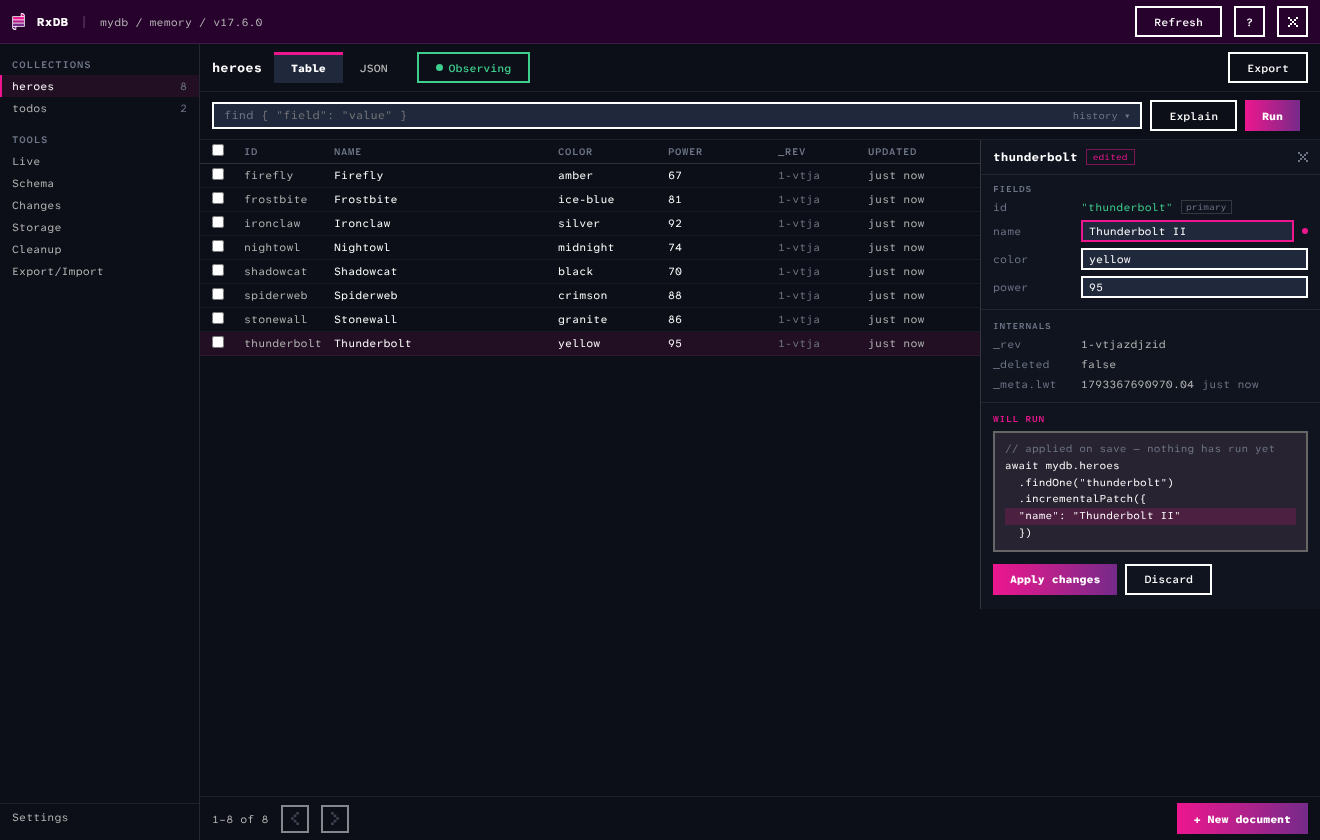
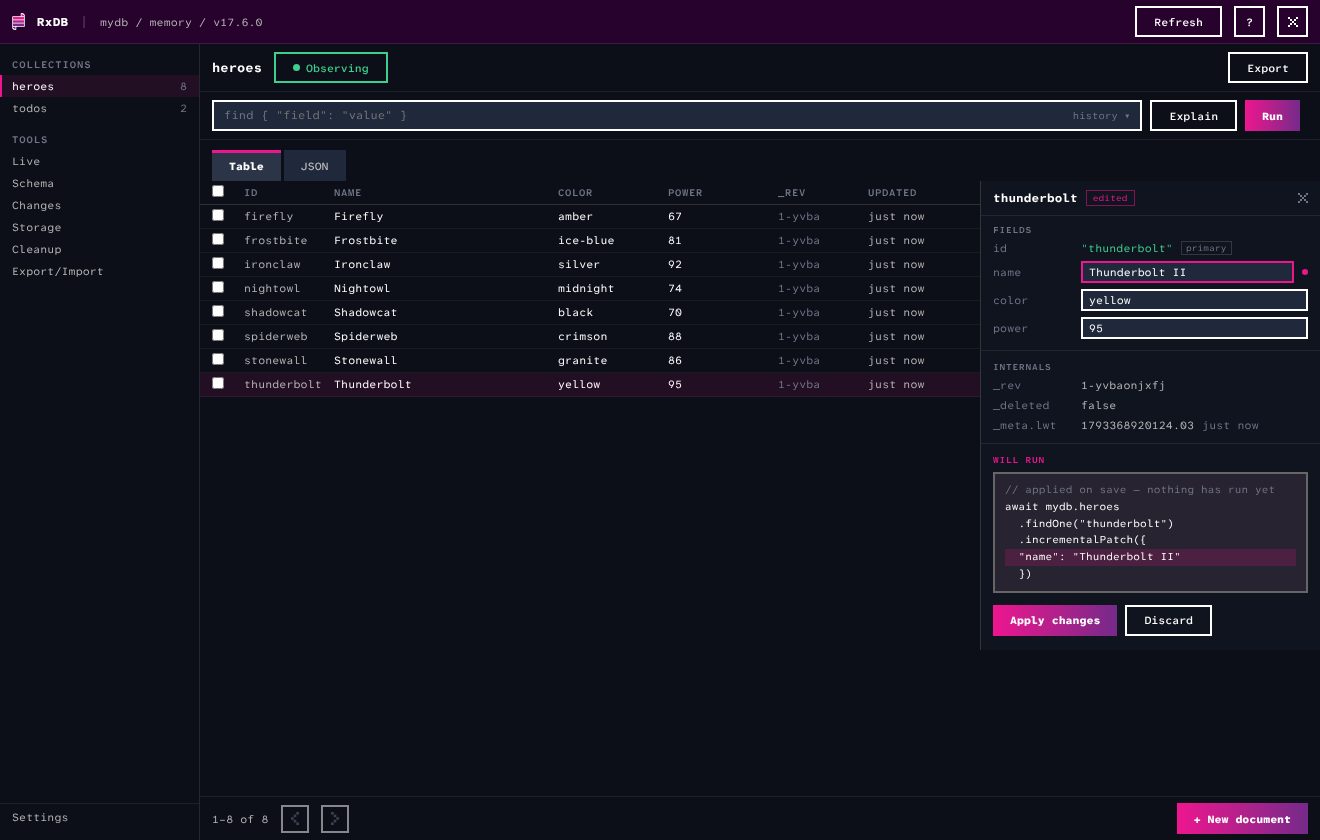
dbviewer: mobile layout fixes, tab placement and docs page rework
On mobile the changes master/detail split stacks vertically so
the diff code box stays inside the screen, the live map flows
top-down without the horizontal lanes, and the tool pages no
longer repeat the tool name below the phone header. Tabs have
a filled background so the inactive tab also reads as a tab,
and the Table/JSON tabs moved out of the toolbar to sit
directly above the content box. The query selector input has
the same fixed 31px height as the buttons next to it.

The docs page is renamed to db-viewer.md with the slug
db-viewer.html (inbound links, sidebar, changelog link and the
viewer help urls updated). Its intro now names both ways to
use the viewer, mounted in-app via mountRxDBViewer() or
connected from the outside via connectRxDBViewer(). The dump
banner sentence, the Follow Up section and the phone
screenshot are removed, docs use desktop screenshots only.

Claude-Session: https://claude.ai/code/session_01XSWnG8xBeMGgwaLKniRnyJ

diff --git a/docs-src/dbviewer/styles.ts b/docs-src/dbviewer/styles.ts
@@ -272,9 +272,12 @@ export const DBVIEWER_STYLES = `
  * background, bold text and a 3px indicator bar in the
  * brand color.
  */
+/* the tab row sits directly above the content box */
+.rxdbv-tabs-row { display: flex; padding: 10px 12px 0; }
 .rxdbv-tabs {
     display: inline-flex;
     align-items: stretch;
+    gap: 3px;
     height: 31px;
 }
 .rxdbv-tab {
@@ -285,7 +288,7 @@ export const DBVIEWER_STYLES = `
     justify-content: center;
     padding: 0 17px;
     border: 0;
-    background: transparent;
+    background: var(--rxdbv-bg);
     color: var(--rxdbv-fg-muted);
     font-size: 11px;
     font-weight: 500;
@@ -294,7 +297,7 @@ export const DBVIEWER_STYLES = `
     transition: color 180ms ease-in-out, background 180ms ease-in-out;
 }
 .rxdbv-tab:hover:not(.rxdbv-active) { color: var(--rxdbv-fg); font-weight: 800; }
-.rxdbv-tab.rxdbv-active { background: var(--rxdbv-bg); color: var(--rxdbv-fg); font-weight: 800; }
+.rxdbv-tab.rxdbv-active { background: var(--rxdbv-active-segment); color: var(--rxdbv-fg); font-weight: 800; }
 .rxdbv-tab.rxdbv-active::before {
     content: '';
     position: absolute;
@@ -335,9 +338,11 @@ export const DBVIEWER_STYLES = `
     display: flex;
     align-items: center;
     gap: 8px;
+    box-sizing: border-box;
+    height: 31px;
     background: var(--rxdbv-bg);
     border: 2px solid var(--rxdbv-control-border);
-    padding: 4px 10px;
+    padding: 0 10px;
     font-family: var(--rxdbv-mono);
     font-size: 11.5px;
 }
@@ -668,8 +673,17 @@ export const DBVIEWER_STYLES = `
 
 /* changes panel */
 .rxdbv-split { flex: 1; display: flex; min-height: 0; }
-.rxdbv-split-left { flex: 1; overflow: auto; border-right: 1px solid rgba(255, 255, 255, 0.10); }
+.rxdbv-split-left { flex: 1; overflow: auto; min-width: 0; border-right: 1px solid rgba(255, 255, 255, 0.10); }
 .rxdbv-split-right { width: 460px; min-width: 460px; overflow: auto; background: var(--rxdbv-bg-detail); }
+/**
+ * Below 760px the master/detail split stacks vertically, so
+ * the detail pane and its code boxes never exceed the screen.
+ */
+@media (max-width: 760px) {
+    .rxdbv-split { flex-direction: column; }
+    .rxdbv-split-left { flex: 0 1 auto; max-height: 45%; border-right: 0; border-bottom: 1px solid rgba(255, 255, 255, 0.10); }
+    .rxdbv-split-right { width: auto; min-width: 0; flex: 1; }
+}
 .rxdbv-filter-input {
     background: var(--rxdbv-bg);
     border: 2px solid var(--rxdbv-control-border);
@@ -751,6 +765,21 @@ export const DBVIEWER_STYLES = `
  * Idle rows fade their graphics but never their text,
  * faded labels on the dark background are unreadable.
  */
+/**
+ * Below 760px the live map flows top-down: app node, then per
+ * collection its node and remote stacked. The horizontal lanes
+ * and the column headers only make sense side by side, so they
+ * are not drawn.
+ */
+@media (max-width: 760px) {
+    .rxdbv-live-map { flex-direction: column; gap: 12px; overflow-x: hidden; }
+    .rxdbv-live-col-app { width: auto; min-width: 0; }
+    .rxdbv-live-rows > div:first-child { display: none !important; }
+    .rxdbv-live-row { flex-direction: column; align-items: stretch; gap: 8px; min-height: 0; }
+    .rxdbv-live-lane { display: none; }
+    .rxdbv-live-coll-node,
+    .rxdbv-live-remote-node { width: auto; min-width: 0; }
+}
 .rxdbv-live-idle .rxdbv-live-track { opacity: 0.45; }
 .rxdbv-live-idle .rxdbv-live-coll-node,
 .rxdbv-live-idle .rxdbv-live-remote-node { opacity: 0.8; }
@@ -830,5 +859,12 @@ export const DBVIEWER_STYLES = `
 .rxdbv-phone-field { padding: 8px 14px; border-bottom: 1px solid rgba(255, 255, 255, 0.06); font-size: 13px; }
 .rxdbv-phone-tool-host { flex: 1; min-height: 0; display: flex; flex-direction: column; overflow: auto; }
 .rxdbv-phone-tool-host > * { min-width: 0; }
+/**
+ * The phone header already names the open tool, so the panel
+ * toolbar does not repeat it. A toolbar that held only the
+ * title disappears entirely.
+ */
+.rxdbv-phone-tool-host .rxdbv-toolbar-title { display: none; }
+.rxdbv-phone-tool-host .rxdbv-toolbar:not(:has(> :not(.rxdbv-toolbar-title))) { display: none; }
 .rxdbv-phone-field .rxdbv-phone-field-label { color: var(--rxdbv-fg-dim); font-size: 10px; }
 `;

diff --git a/docs-src/dbviewer/collection.ts b/docs-src/dbviewer/collection.ts
@@ -151,13 +151,6 @@ export function renderCollectionScreen(ctx: PageContext) {
     });
     const toolbar = el('div', 'rxdbv-toolbar', [
         el('span', 'rxdbv-toolbar-title rxdbv-mono', collectionName),
-        buildTabs([
-            { value: 'table', label: 'Table' },
-            { value: 'json', label: 'JSON' }
-        ], uiState.view, view => {
-            uiState.view = view;
-            ctx.renderContent();
-        }),
         observeToggle,
         el('div', 'rxdbv-flex1'),
         el('button', 'rxdbv-btn', 'Export', {
@@ -198,6 +191,15 @@ export function renderCollectionScreen(ctx: PageContext) {
     screen.appendChild(querybar);
     const errorHost = el('div');
     screen.appendChild(errorHost);
+    screen.appendChild(el('div', 'rxdbv-tabs-row', [
+        buildTabs([
+            { value: 'table', label: 'Table' },
+            { value: 'json', label: 'JSON' }
+        ], uiState.view, view => {
+            uiState.view = view;
+            ctx.renderContent();
+        })
+    ]));
 
     const applyInput = (commit = true) => {
         uiState.queryInput = queryInput.value;

diff --git a/docs-src/dbviewer/App.tsx b/docs-src/dbviewer/App.tsx
@@ -270,7 +270,7 @@ export function ViewerApp(props: ViewerAppProps) {
                     <button
                         className="rxdbv-btn rxdbv-btn-icon"
                         title="Open the RxDB documentation"
-                        onClick={() => window.open(VIEWER_DOCS_BASE_URL + 'dbviewer.html', '_blank')}
+                        onClick={() => window.open(VIEWER_DOCS_BASE_URL + 'db-viewer.html', '_blank')}
                     >?</button>
                     {props.showCloseButton ? (
                         <button

diff --git a/docs-src/dbviewer/main.tsx b/docs-src/dbviewer/main.tsx
@@ -237,7 +237,7 @@ function StandaloneLanding(props: {
                     </button>
                     <a
                         style={{ fontSize: 11 }}
-                        onClick={() => window.open('https://rxdb.info/dbviewer.html', '_blank')}
+                        onClick={() => window.open('https://rxdb.info/db-viewer.html', '_blank')}
                     >Viewer documentation</a>
                 </div>
                 {error ? (

diff --git a/docs-src/sidebars.js b/docs-src/sidebars.js
@@ -515,7 +515,7 @@ const sidebars = {
         },
         {
           type: 'doc',
-          id: 'dbviewer',
+          id: 'db-viewer',
           label: 'Database Viewer'
         },
         {

diff --git a/docs-src/docs/db-viewer.md b/docs-src/docs/db-viewer.md
@@ -1,8 +1,8 @@
 ---
 title: Database Viewer - Inspect and Edit RxDB Data in a Devtool
-slug: dbviewer.html
+slug: db-viewer.html
 description: Mount the RxDB database viewer to inspect collections, run Mango queries, edit documents and watch replication live, over a running database or a JSON dump.
-image: /headers/dbviewer.jpg
+image: /headers/db-viewer.jpg
 ---
 
 import {Tabs} from '@site/src/components/tabs';
@@ -10,7 +10,7 @@ import {BetaBlock} from '@site/src/components/beta-block';
 
 # Database Viewer
 
-With the `dbviewer` plugin you can inspect and edit the data of a running [RxDB](https://rxdb.info/) database from inside your own application. The viewer mounts into any DOM element and renders a full devtool: a data grid with a Mango query bar, a JSON view, a document detail drawer, and panels for schema analysis, query analysis, [replication](./replication.md), the change stream and storage statistics. It works over a live [RxDatabase](./rx-database.md) and over a static dump created with the [json-dump plugin](./json-import-export.md).
+With the `dbviewer` plugin you can inspect and edit the data of a running [RxDB](https://rxdb.info/) database. There are two ways to use it: mount it into any DOM element of your own application with `mountRxDBViewer()`, or connect to the database from the outside with `connectRxDBViewer()`, which pairs the hosted viewer page with the app over WebRTC. Both render the same full devtool: a data grid with a Mango query bar, a JSON view, a document detail drawer, and panels for schema analysis, query analysis, [replication](./replication.md), the change stream and storage statistics. It works over a live [RxDatabase](./rx-database.md) and over a static dump created with the [json-dump plugin](./json-import-export.md).
 
 <BetaBlock since="17.7.0" />
 
@@ -49,11 +49,7 @@ The cleanup tool shows how many tombstones a [cleanup](./cleanup.md) could purge
   <img src="./files/dbviewer-cleanup.png" alt="RxDB database viewer cleanup tool" width="760" />
 </p>
 
-Below 640px the viewer switches to stacked touch screens with the same collections and tools:
-
-<p align="center">
-  <img src="./files/dbviewer-phone.png" alt="RxDB database viewer phone layout" width="300" />
-</p>
+Below 640px the viewer switches to stacked touch screens with the same collections and tools.
 
 ## How it works
 
@@ -362,7 +358,7 @@ mountRxDBViewer({
 });
 ```
 
-A persistent banner states that the data is read-only and frozen at export time. Editing, Observe mode, the Live map and the feeds are disabled with a "not available on a dump" hint. The grid, queries, the Schema panel and the Storage counts work fully. A dump file can also be opened at runtime from the Export/Import tool.
+Editing, Observe mode, the Live map and the feeds are disabled with a "not available on a dump" hint. The grid, queries, the Schema panel and the Storage counts work fully. A dump file can also be opened at runtime from the Export/Import tool.
 
 ## Editing is explicit
 
@@ -423,11 +419,3 @@ Yes. The viewer talks to the database through the normal query API, so every [Rx
 Yes. The Replication panel polls for states created with `replicateRxCollection()` or one of the replication plugins in the same JavaScript context, so states that start later are picked up automatically.
 
 </details>
-
-## Follow Up
-
-- Start with the [RxDB Quickstart](./quickstart.md)
-- Learn how to [export and import JSON dumps](./json-import-export.md)
-- Read about [dev-mode](./dev-mode.md) checks during development
-- Expose your data to AI agents with the [WebMCP plugin](./webmcp.md)
-- If you have not done so yet, leave a star at the [RxDB GitHub repo ⭐](/code/)

diff --git a/docs-src/docs/logger.md b/docs-src/docs/logger.md
@@ -12,7 +12,7 @@ import {Steps} from '@site/src/components/steps';
 
 With the logger plugin you can log all operations to the [storage layer](./rx-storage.md) of your [RxDatabase](./rx-database.md).
 
-This is useful to debug performance problems and for monitoring with Application Performance Monitoring (APM) tools like **Bugsnag**, **Datadog**, **Elastic**, **Sentry** and others. When you want to browse and edit the stored documents instead of logging operations, use the [database viewer](./dbviewer.md).
+This is useful to debug performance problems and for monitoring with Application Performance Monitoring (APM) tools like **Bugsnag**, **Datadog**, **Elastic**, **Sentry** and others. When you want to browse and edit the stored documents instead of logging operations, use the [database viewer](./db-viewer.md).
 
 <PremiumBlock />
 

diff --git a/docs-src/docs/dev-mode.md b/docs-src/docs/dev-mode.md
@@ -18,7 +18,7 @@ using RxDB in development mode.
 - Adds validation check for validity of schemas, queries, [ORM](./orm.md) methods and document fields.
   - Notice that the `dev-mode` plugin does not perform schema checks against the data see [schema validation](./schema-validation.md) for that.
 
-To also look at the stored data itself during development, mount the [database viewer](./dbviewer.md) which renders a full devtool over the running database.
+To also look at the stored data itself during development, mount the [database viewer](./db-viewer.md) which renders a full devtool over the running database.
 
 :::warning
 The dev-mode plugin will increase your build size and decrease the performance. It must **always** be used in development. You should **never** use it in production.

diff --git a/docs-src/docs/rx-database.md b/docs-src/docs/rx-database.md
@@ -184,7 +184,7 @@ myDb.$.subscribe(changeEvent => console.dir(changeEvent));
 
 Creates a JSON export of every piece of data in every collection of this database. Needs the `json-dump` plugin. [Read more](./json-import-export.md)
 
-An export can also be opened read-only in the [database viewer](./dbviewer.md), which is useful when you cannot reach the device that runs the database.
+An export can also be opened read-only in the [database viewer](./db-viewer.md), which is useful when you cannot reach the device that runs the database.
 
 ```javascript
 const json = await myDatabase.exportJSON();
